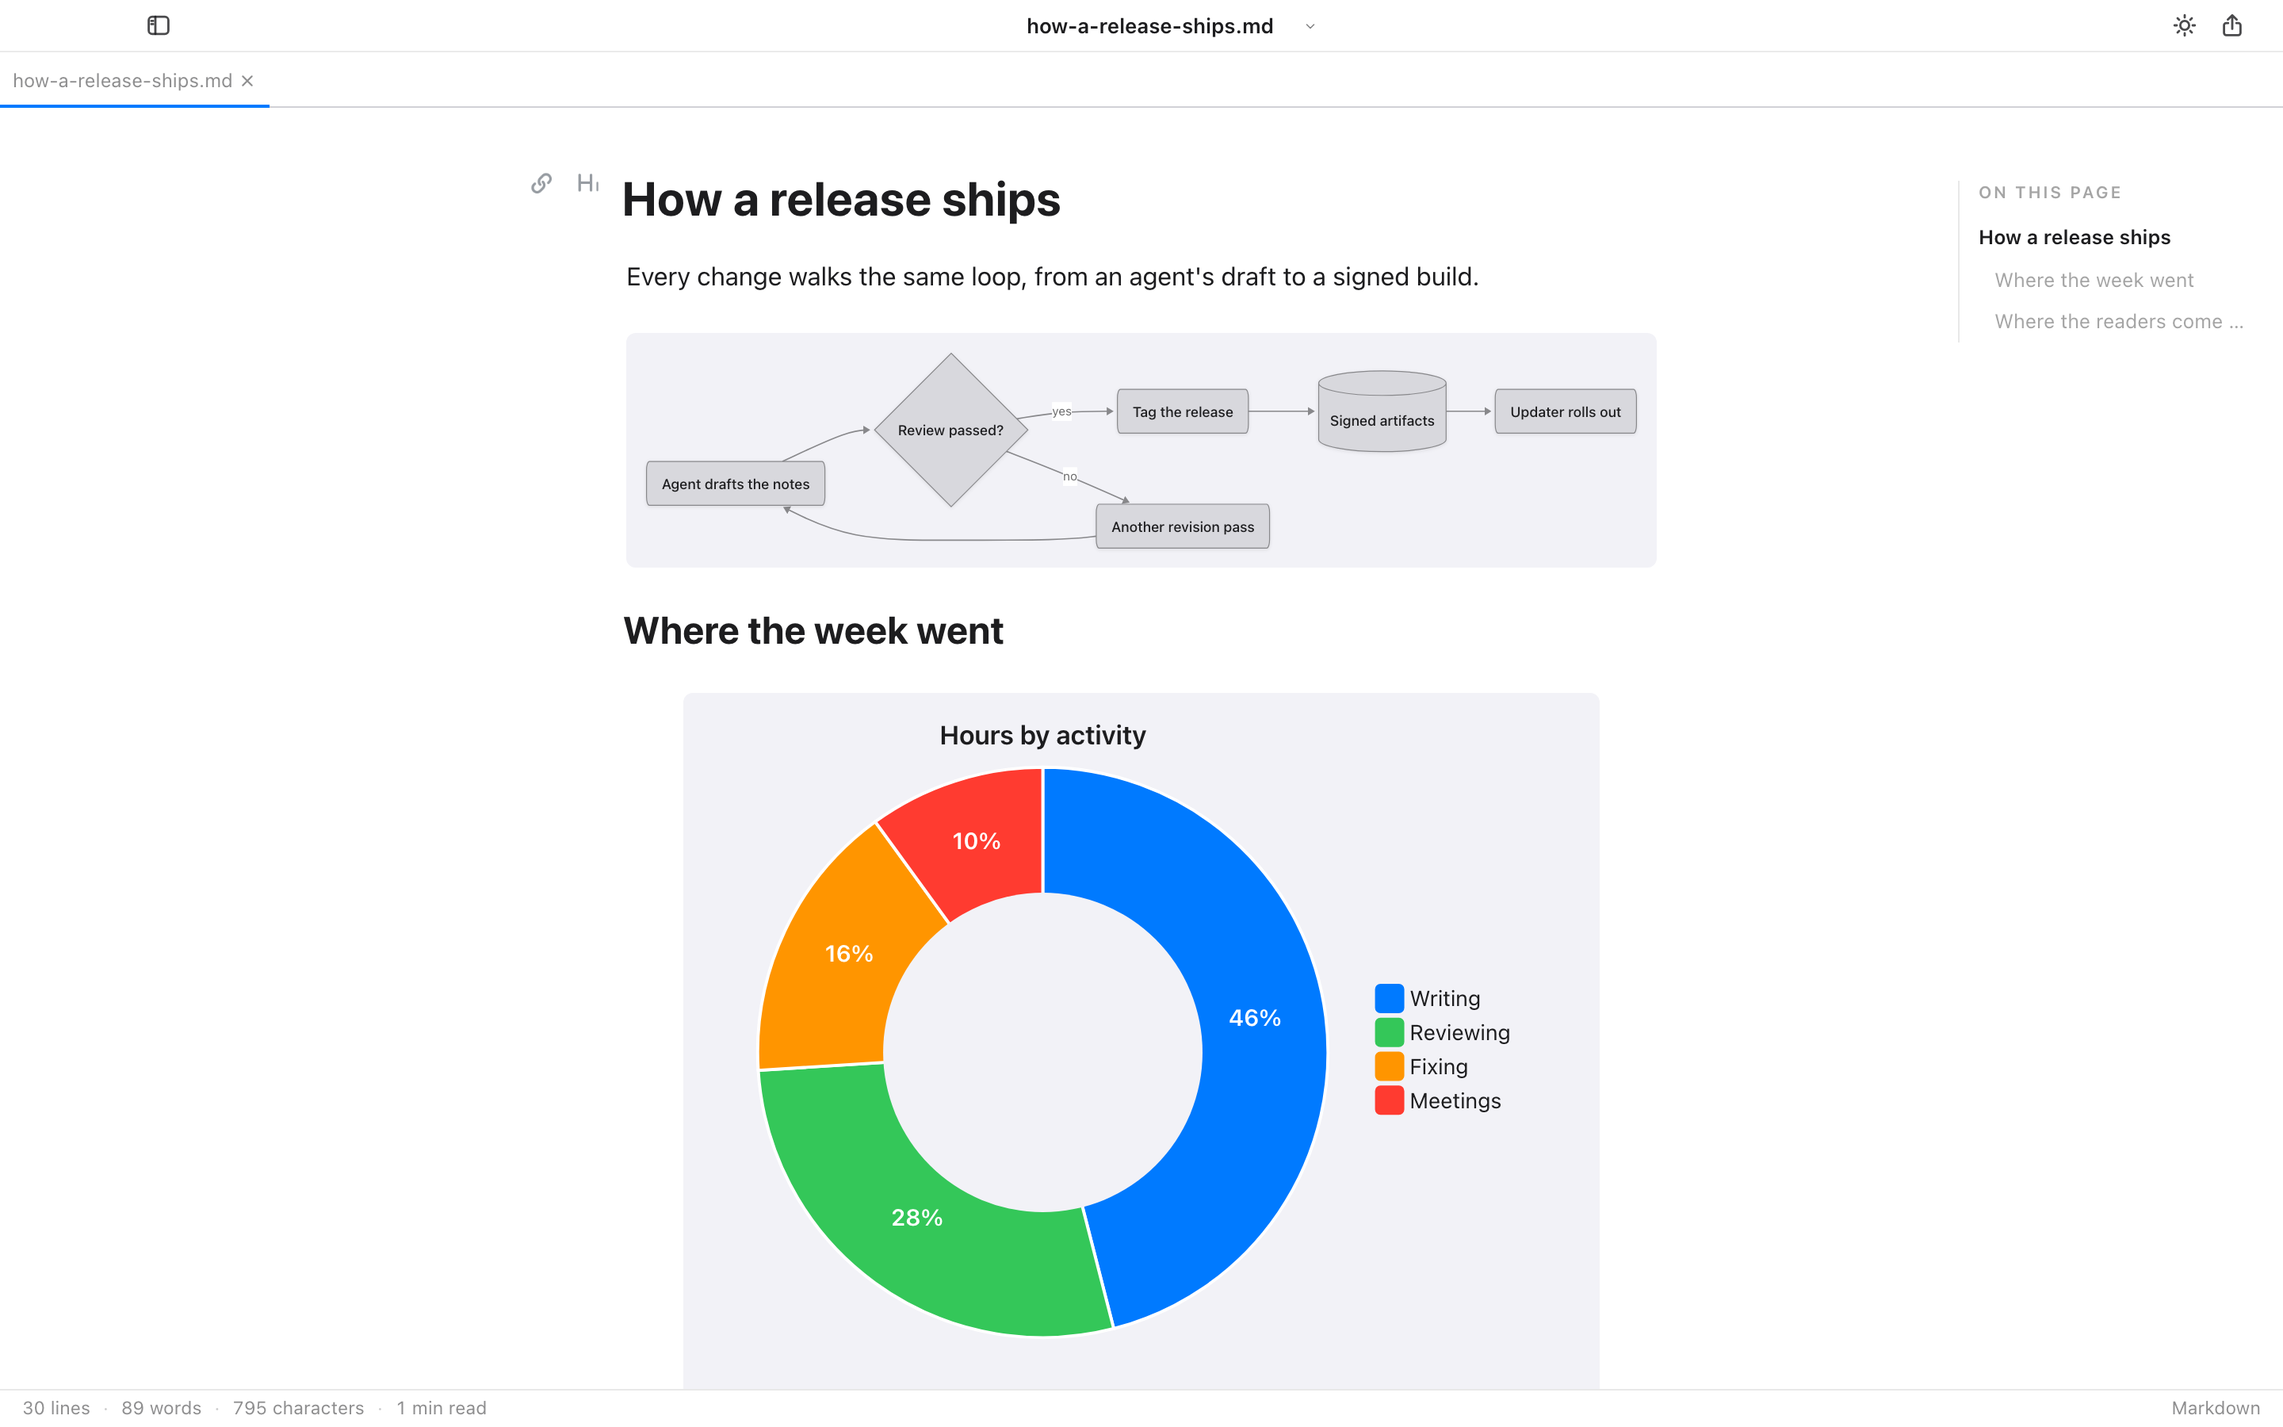
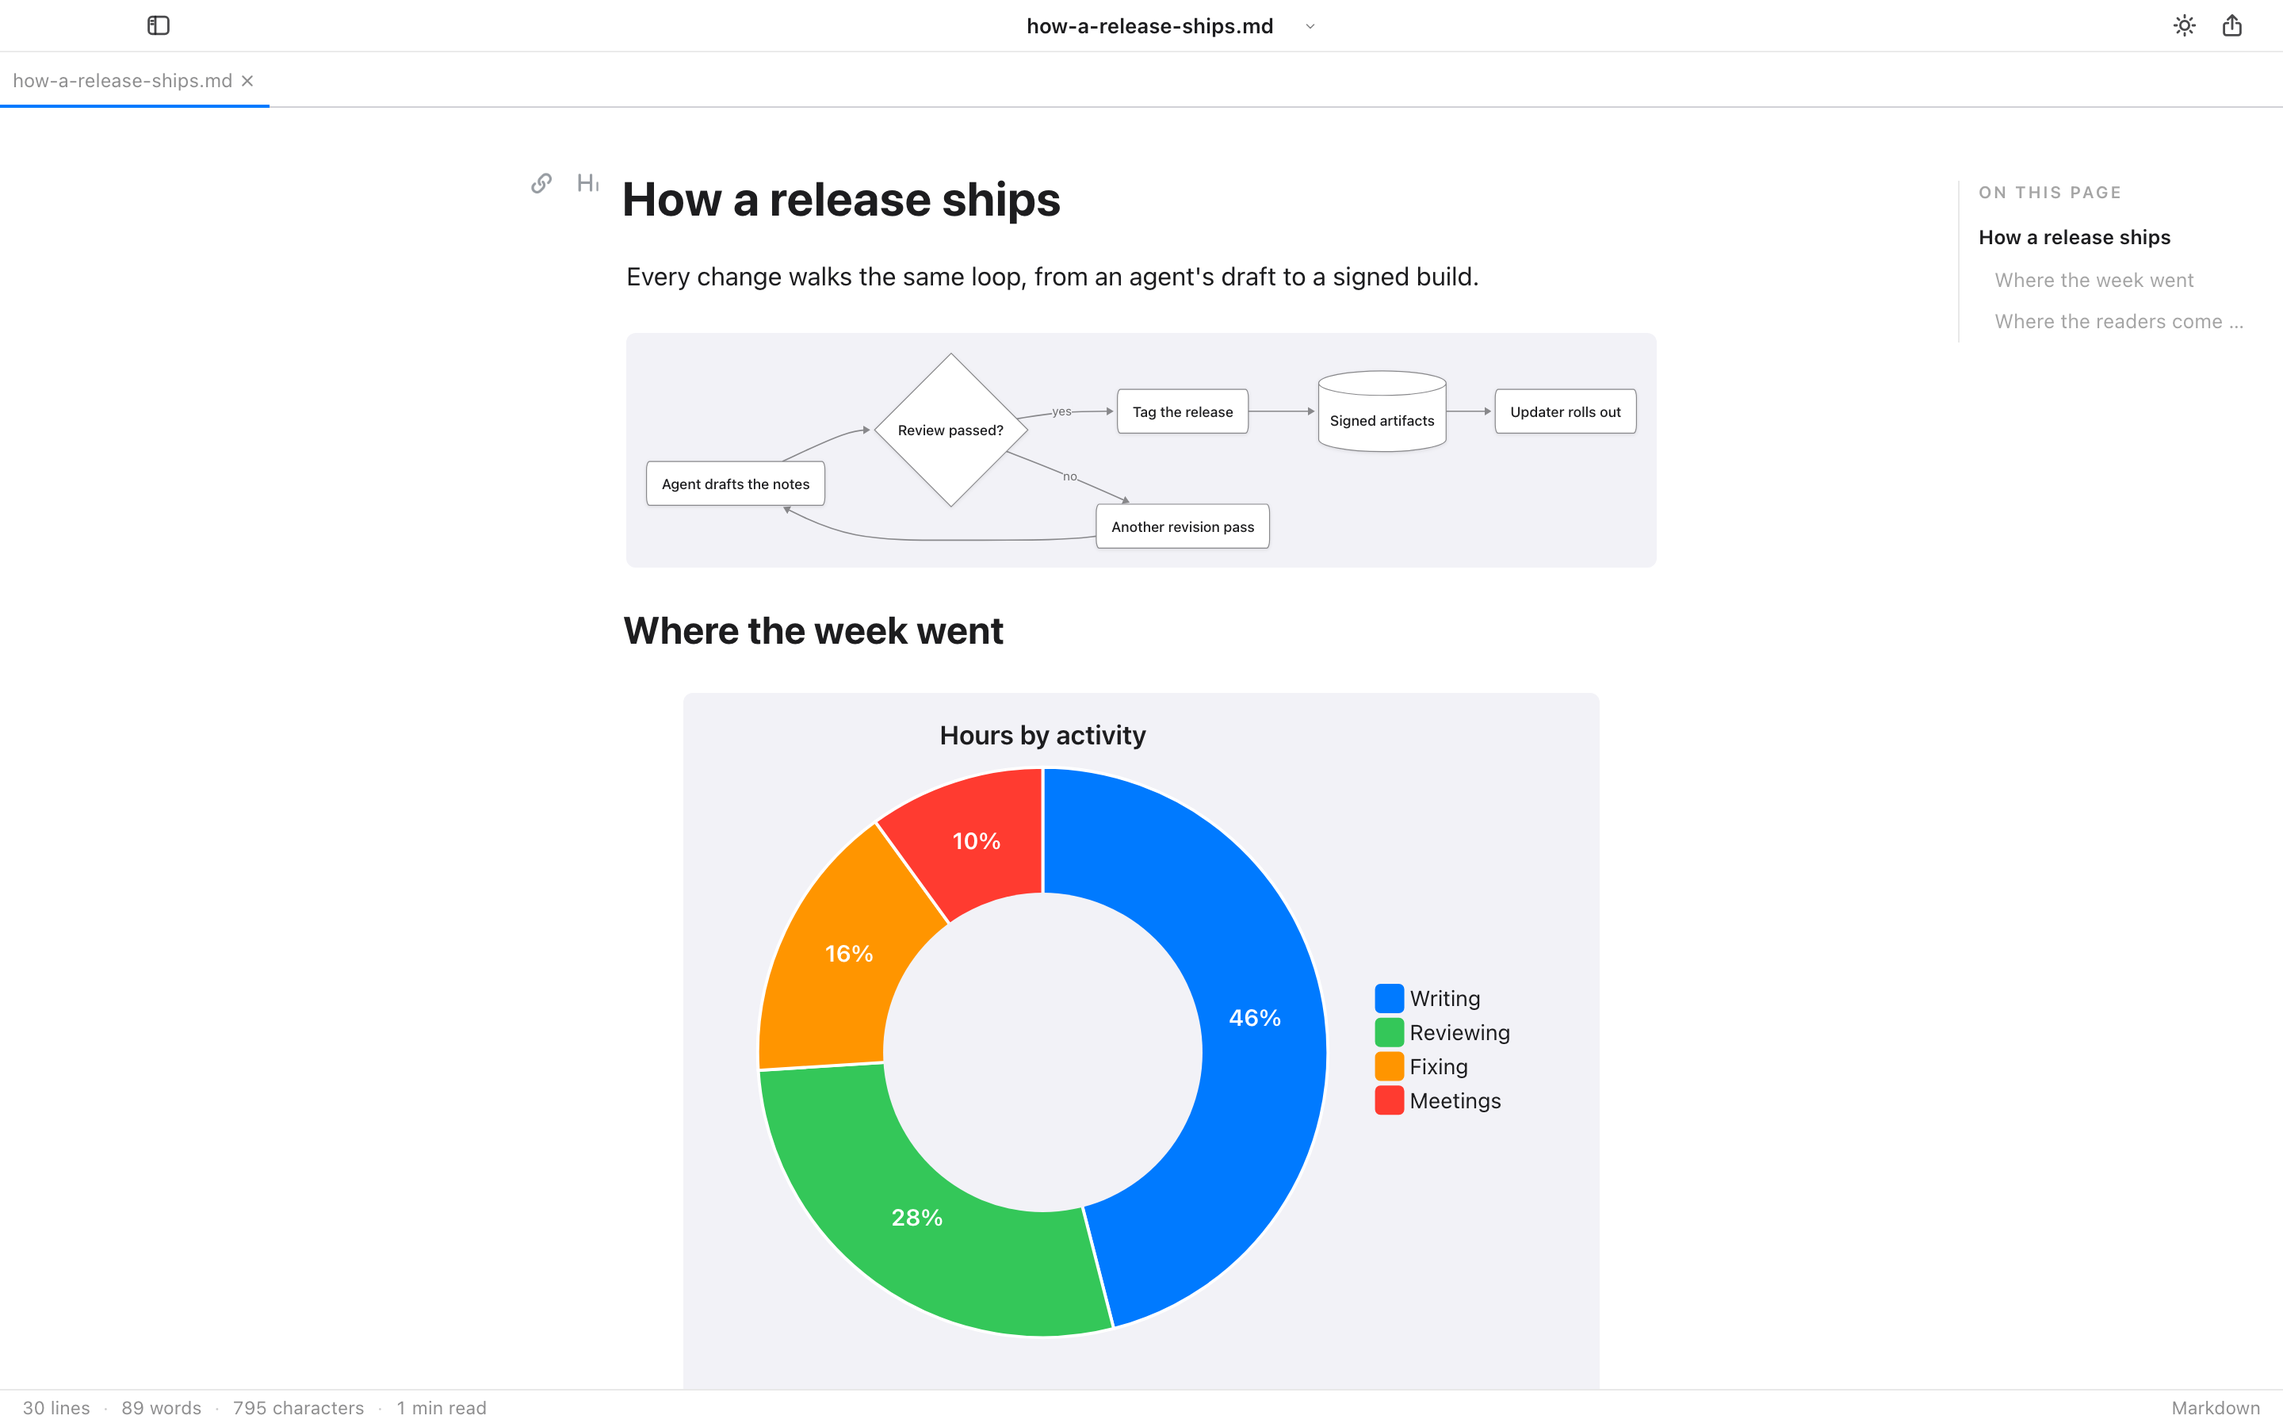
fix(mermaid): white node cards in light themes, edge labels on the diagram panel (C-54)
Light themes draw flowchart nodes in the theme surface again when it is
lighter than the code panel (the T-012 grey blend is kept for dark
themes). Edge labels and label boxes take the panel colour with text
>= 4.5:1, so no more black boxes on dark panels or white patches on
light ones. README screenshots re-captured.

Changed region(s): [[0.2812, 0.2489, 0.7188, 0.3733], [0.4688, 0.3422, 0.5625, 0.4044]]

diff --git a/src/muya/lib/parser/render/mermaidTheme.js b/src/muya/lib/parser/render/mermaidTheme.js
@@ -1,5 +1,5 @@
 // FILE: src/muya/lib/parser/render/mermaidTheme.js
-// VERSION: 1.2.0
+// VERSION: 1.3.0
 // START_MODULE_CONTRACT
 //   PURPOSE: Build the Mermaid render config (theme "base", look "neo", themeVariables, themeCSS polish, per-type layout and sizes) from the ACTIVE APP THEME — the accepted C-51 round-2/3 lab (.lab/palette.js) ported into the product, with node colours derived against the code-block panel (T-012 contrast gates).
 //   SCOPE: OKLCH colour math (oklch/hueOf/palette), active-theme token reading from the document's CSS variables plus the body "dark" flag (translucent values composited over the theme background), diagram type detection from the code's first meaningful line (22 types, frontmatter/%%{init}%% skipped), the WCAG node-contrast derivation against the diagram panel, the per-type config builder, and the theme signature that keys the pipeline's SVG cache.
@@ -20,7 +20,7 @@
 //   MERMAID_THEME_TYPES - the 22 canonical diagram type keys detected by detectMermaidDiagramType.
 //   readActiveThemeTokens - lazily read the active theme's CSS variables + dark flag → { dark, accent, bg, surface, text, muted, border, line, code, font }.
 //   detectMermaidDiagramType - diagram code → canonical type key ("flowchart"…"c4"), skipping blank lines, %% directives/comments and YAML frontmatter; "unknown" when nothing matches.
-//   nodeContrastColors - theme tokens → { panel, fill, border, line, clusterBkg, clusterBorder, text } derived against the code-block panel so node fill/border/line/text meet the WCAG gates (fill ≥ 1.25:1 or ΔL ≥ 0.06, border/line ≥ 3:1, text ≥ 4.5:1 on the fill).
+//   nodeContrastColors - theme tokens → { panel, fill, border, line, clusterBkg, clusterBorder, text, labelText } derived against the code-block panel so node fill/border/line/text meet the WCAG gates (fill ≥ 1.25:1 or ΔL ≥ 0.06, border/line ≥ 3:1, text ≥ 4.5:1 on the fill).
 //   buildMermaidThemeConfig - theme tokens + type key → full mermaid.initialize config (themeVariables incl. cScale/pie/git/xyChart/quadrant/journey scales, themeCSS polish, per-type layout config with the C-34 fit-column useMaxWidth policy).
 //   mermaidThemeSignature - theme tokens → short stable signature (includes the resolved palette AND the derived node colours) for the pipeline's cache key.
 //   MARKER_SCALE - per-type arrowhead scale factors.
@@ -30,7 +30,12 @@
 // END_MODULE_MAP
 //
 // START_CHANGE_SUMMARY
-//   LAST_CHANGE: v1.2.0 - 2026-10-16 C-51 T-012 (user: «в темной теме у
+//   LAST_CHANGE: v1.3.0 - 2026-10-17 C-54 (user: «чини»): light themes
+//   draw nodes as white cards again (surface lighter than the panel, border
+//   ≥ 3:1) instead of the grey T-012 blend; edge labels and label boxes
+//   take the panel colour with ≥ 4.5:1 text (labelText) — no more black
+//   boxes on dark panels.
+//   PREV: v1.2.0 - 2026-10-16 C-51 T-012 (user: «в темной теме у
 //   мермейд явно проблемы с контрастностью блоков»): node colours are now
 //   derived RELATIVE TO THE CODE-BLOCK PANEL (the background mermaid SVGs
 //   actually sit on), not the page tokens — nodeContrastColors(t) (pure,
@@ -347,6 +352,12 @@ export const wcagContrast = (a, b) => {
 // Fill candidates around the prescribed 8–14 % text-over-panel band
 // (0.12 first; the fallback ladder walks the panel away below the text —
 // only reached by dark themes whose text cannot keep 4.5:1 on any lift).
+// C-54 R-1: a light card is strictly lighter than the panel (ΔL ≥ 0.015 in
+// OKLab, so a surface that merely equals the panel never counts).
+const LIGHT_CARD_MIN_DL = 0.015
+const isLightCard = (hex, panel) =>
+  oklabLightness(hex) - oklabLightness(panel) >= LIGHT_CARD_MIN_DL
+
 const NODE_FILL_STEPS = [0.12, 0.14, 0.1, 0.16, 0.08, 0.18, 0.22, 0.26, 0.3]
 const NODE_FILL_AWAY_STEPS = [0.25, 0.35, 0.45, 0.55, 0.65, 0.75]
 const NODE_TEXT_BOOST_STEPS = [0.05, 0.1, 0.15, 0.2, 0.3, 0.4, 0.5, 0.6]
@@ -370,8 +381,15 @@ export const nodeContrastColors = (t) => {
 
   let fill = null
   let text = themeText
+  // (a0) C-54 R-1: light themes draw nodes as white cards — the theme
+  //      surface, lighter than the panel and outlined by the ≥ 3:1 border
+  //      below — instead of a grey text blend (the T-012 distinctness gate
+  //      is a dark-theme rule: a light card reads by its border and shadow).
+  if (!t.dark && isLightCard(t.surface, panel) && readableTextOn(t.surface)) {
+    fill = t.surface
+  }
   // (a) Keep today's look when the theme surface already passes both gates.
-  if (distinctFromPanel(t.surface) && readableTextOn(t.surface)) {
+  if (!fill && distinctFromPanel(t.surface) && readableTextOn(t.surface)) {
     fill = t.surface
   }
   // (b) The prescribed lift: blend text over the panel, the 8–14 % band
@@ -445,7 +463,22 @@ export const nodeContrastColors = (t) => {
   for (let i = 11; (clusterBkg === panel || clusterBkg === fill) && i <= 19; i++) {
     clusterBkg = blendHex(fill, panel, i / 20)
   }
-  return { panel, fill, border, line, clusterBkg, clusterBorder: border, text }
+  // C-54 R-2: edge labels sit on the panel — the muted token when it keeps
+  // ≥ 4.5:1 there, else the theme text.
+  // Dim themes (one-dark, solarized) fail with both — push the text away
+  // from the panel until it reaches 4.5:1.
+  let labelText = wcagContrast(t.muted, panel) >= 4.5 ? t.muted : themeText
+  if (wcagContrast(labelText, panel) < 4.5) {
+    const far = wcagLuminanceOf(panel) >= wcagLuminanceOf(themeText) ? '#000000' : '#ffffff'
+    for (const k of NODE_TEXT_BOOST_STEPS) {
+      const c = blendHex(themeText, far, k)
+      if (wcagContrast(c, panel) >= 4.5) {
+        labelText = c
+        break
+      }
+    }
+  }
+  return { panel, fill, border, line, clusterBkg, clusterBorder: border, text, labelText }
 }
 // END_BLOCK_MERMAID_NODE_CONTRAST
 
@@ -671,7 +704,9 @@ export const buildMermaidThemeConfig = (t, type = 'unknown') => {
     // primaryColor / primaryBorderColor so a user's %%{init}%% primaryColor
     // still recolours the nodes (review 2026-10-16).
     secondaryColor: tint[0], tertiaryColor: t.code, clusterBkg: node.clusterBkg, clusterBorder: node.clusterBorder,
-    edgeLabelBackground: t.bg, labelBackgroundColor: t.bg, titleColor: t.text,
+    // C-54 R-2: label boxes take the panel the diagram sits on (the page
+    // colour drew black boxes on dark panels and white patches on light).
+    edgeLabelBackground: node.panel, labelBackgroundColor: node.panel, titleColor: t.text,
     noteBkgColor: node.fill, noteBorderColor: node.border, noteTextColor: node.text,
     actorBkg: node.fill, actorBorder: node.border, actorTextColor: node.text, signalColor: node.line, signalTextColor: t.text,
     fontFamily: t.font, fontSize: '15px', darkMode: t.dark,
@@ -762,7 +797,7 @@ export const buildMermaidThemeConfig = (t, type = 'unknown') => {
     `.nodeLabel, text.actor, .messageText, .taskText, .stateLabel { font-weight: 500; }`,
     // journey and gitGraph hard-code Trebuchet on some labels.
     `text, tspan { font-family: ${t.font}; }`,
-    `.edgeLabel, .edgeLabel p { color: ${t.muted}; font-size: 13px; }`,
+    `.edgeLabel, .edgeLabel p { color: ${node.labelText}; font-size: 13px; }`,
     `.flowchart-link, .messageLine0, .messageLine1, .transition, .relation { stroke-width: 1.4px; }`,
     `.mindmap-edges path, .edge-depth-1, .edge-depth-2 { stroke-width: 2px !important; }`,
     `.sankey-node rect, .node rect { rx: 3px; }`,

diff --git a/tests/e2e/mermaid-theme.spec.ts b/tests/e2e/mermaid-theme.spec.ts
@@ -1,5 +1,5 @@
 // FILE: tests/e2e/mermaid-theme.spec.ts
-// VERSION: 2.1.0
+// VERSION: 2.2.0
 // START_MODULE_CONTRACT
 //   PURPOSE: E2E gate for C-51 T-003/T-004/T-012 — Mermaid follows the active app theme: the 22-diagram-type × light/dark render matrix (no errors, no default purple/Trebuchet, readable gantt/packet labels, palette-coloured series diagrams, %%{init}%% user overrides win, paper → ink re-render) and the T-012 node-contrast gate that measures the COMPUTED node colours of a flowchart (with subgraph), a sequence diagram and a state diagram in ink, docs-dark and macos-dark against the diagram panel.
 //   SCOPE: booting the editor with a mocked theme preference and a generated document; resolving theme CSS variables the way the browser does; computing WCAG contrast and Oklab ΔL in the spec (the twin of mermaidTheme.wcagContrast); measuring computed node rect fill/stroke, the VISIBLE label ink (the sequence actor's foreignObject div color, or the SVG tspan fill for SVG-only labels — `text.actor > tspan` carries actorTextColor while the <text> itself carries the box fill), cluster fill, edge strokes and only the RENDERED arrowheads (marker defs referenced by marker-end/marker-start; unused defs are unpainted black); per-theme evidence screenshots.
@@ -30,7 +30,10 @@
 // END_MODULE_MAP
 //
 // START_CHANGE_SUMMARY
-//   LAST_CHANGE: v2.1.0 - 2026-10-16 C-51 T-012 (orchestrator gate fix):
+//   LAST_CHANGE: v2.2.0 - 2026-10-17 C-54 R-1: Paper's flowchart fill is
+//   the surface (a white card lighter than the panel); dark themes keep
+//   the T-012 distinct-fill pins.
+//   PREV: v2.1.0 - 2026-10-16 C-51 T-012 (orchestrator gate fix):
 //   measureFigureContrast reads the label INK the engine actually paints.
 //   Sequence actor labels render through foreignObject (textPlacement
 //   default "fo"): the VISIBLE ink is div.actor-box's computed color, while
@@ -575,9 +578,16 @@ test.describe('mermaid follows the app theme (C-51 T-003/T-004)', () => {
         // derived to separate from THAT panel (the raw surface never did:
         // 1.15:1 in paper, ~1:1 in the dark themes where floatBg == codeBg)
         // and the border reaches WCAG 1.4.11 there.
-        expect(flow.fill).not.toBe(expectedSurface)
-        expect(flow.fill).not.toBe(expectedPanel)
-        expect(fillDistinctFromPanel(flow.fill, expectedPanel), `${theme} fill vs panel`).toBe(true)
+        // C-54 R-1: light themes draw white cards — the surface itself,
+        // lighter than the panel; dark themes keep the derived lift.
+        if (theme === 'paper') {
+          expect(flow.fill).toBe(expectedSurface)
+          expect((oklabLightness(flow.fill) ?? 0) - (oklabLightness(expectedPanel) ?? 1)).toBeGreaterThanOrEqual(0.015)
+        } else {
+          expect(flow.fill).not.toBe(expectedSurface)
+          expect(flow.fill).not.toBe(expectedPanel)
+          expect(fillDistinctFromPanel(flow.fill, expectedPanel), `${theme} fill vs panel`).toBe(true)
+        }
         expect(contrast(flow.stroke, expectedPanel)).toBeGreaterThanOrEqual(3)
         expect([flow.labelFill, flow.labelColor]).toContain(expectedText)
 

diff --git a/tests/renderer/muya/mermaid-node-contrast.test.js b/tests/renderer/muya/mermaid-node-contrast.test.js
@@ -229,7 +229,20 @@ describe('nodeContrastColors (C-51 T-012)', () => {
     expect(nodeContrastColors(t).fill).toBe('#21252b')
   })
 
-  it('is deterministic', () => {
+  it('draws light-theme nodes as white cards over the panel (C-54 R-1)', () => {
+  const node = nodeContrastColors(PAPER_TOKENS)
+  if (oklabLightness(PAPER_TOKENS.surface) - oklabLightness(PAPER_TOKENS.code) >= 0.015) {
+    expect(node.fill).toBe(PAPER_TOKENS.surface)
+  }
+  const t = { ...PAPER_TOKENS, surface: '#ffffff', code: '#f2f2f7', text: '#1d1d1f', border: '#d2d2d7' }
+  const card = nodeContrastColors(t)
+  expect(card.fill).toBe('#ffffff')
+  expect(wcagContrast(card.border, t.code)).toBeGreaterThanOrEqual(3)
+  // Dark themes keep the T-012 lift.
+  expect(nodeContrastColors(INK_TOKENS).fill).toBe(blendHex(INK_TOKENS.text, INK_TOKENS.code, 0.12))
+})
+
+it('is deterministic', () => {
     expect(nodeContrastColors(INK_TOKENS)).toEqual(nodeContrastColors({ ...INK_TOKENS }))
     expect(nodeContrastColors(PAPER_TOKENS)).toEqual(nodeContrastColors({ ...PAPER_TOKENS }))
   })
@@ -259,8 +272,19 @@ describe('every registered theme passes the node-contrast gates (C-51 T-012)', (
       if (wcagContrast(v.primaryBorderColor, panel) < 3) {
         failures.push(where(`border ${v.primaryBorderColor} vs panel ${panel} < 3:1`))
       }
-      if (!fillDistinctFromPanel(v.primaryColor, panel)) {
+      // C-54 R-1: a light theme may draw a white card — lighter than the
+      // panel and outlined by the ≥ 3:1 border — instead of a lifted fill.
+      const lightCard = !dark && oklabLightness(v.primaryColor) - oklabLightness(panel) >= 0.015
+      if (!fillDistinctFromPanel(v.primaryColor, panel) && !lightCard) {
         failures.push(where(`fill ${v.primaryColor} is not distinguishable from panel ${panel}`))
+      }
+      // C-54 R-2: edge labels sit on the panel with readable text.
+      if (v.edgeLabelBackground !== panel || v.labelBackgroundColor !== panel) {
+        failures.push(where(`edge label box ${v.edgeLabelBackground} is not the panel ${panel}`))
+      }
+      const labelInk = /\.edgeLabel, \.edgeLabel p \{ color: (#[0-9a-fA-F]{6})/.exec(buildMermaidThemeConfig(tokens, 'flowchart').themeCSS)
+      if (!labelInk || wcagContrast(labelInk[1], panel) < 4.5) {
+        failures.push(where(`edge label text ${labelInk && labelInk[1]} vs panel ${panel} < 4.5:1`))
       }
       if (wcagContrast(v.primaryTextColor, v.primaryColor) < 4.5) {
         failures.push(where(`text ${v.primaryTextColor} vs fill ${v.primaryColor} < 4.5:1`))

diff --git a/tests/renderer/muya/mermaid-theme.test.js b/tests/renderer/muya/mermaid-theme.test.js
@@ -315,10 +315,12 @@ describe('buildMermaidThemeConfig (C-51 T-003/T-004)', () => {
     expect(v.primaryBorderColor).toBe(node.border)
     expect(v.lineColor).toBe(node.line)
     expect(v.background).toBe(PAPER_TOKENS.bg)
-    // The pre-T-012 surface/hairline pair failed the panel gates (Paper's
-    // surface is 1.15:1 and its border 1.16:1 on the code-block panel).
-    expect(v.primaryColor).not.toBe(PAPER_TOKENS.surface)
+    // C-54 R-1: Paper's surface is a light card over the panel — the fill
+    // stays the surface; the hairline border (1.16:1) is still replaced.
+    expect(v.primaryColor).toBe(PAPER_TOKENS.surface)
     expect(v.primaryBorderColor).not.toBe(PAPER_TOKENS.border)
+    // C-54 R-2: the edge-label box is the panel.
+    expect(v.edgeLabelBackground).toBe(PAPER_TOKENS.code)
     expect(wcagContrast(v.primaryBorderColor, PAPER_TOKENS.code)).toBeGreaterThanOrEqual(3)
   })
 
